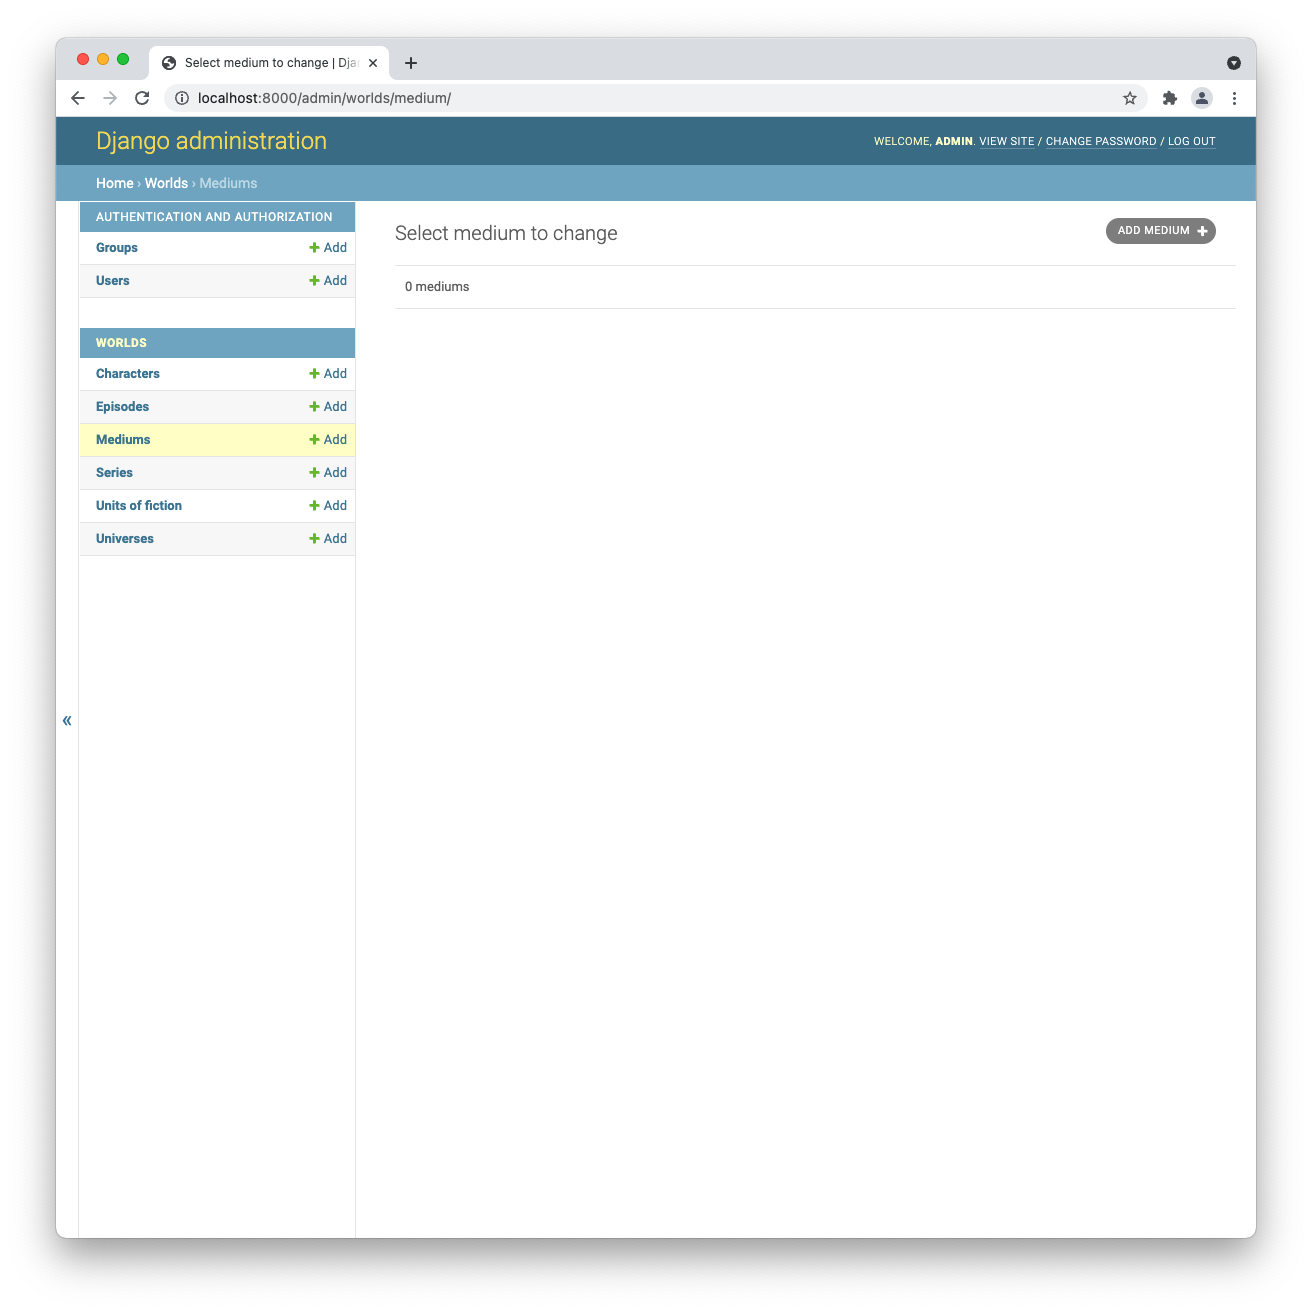
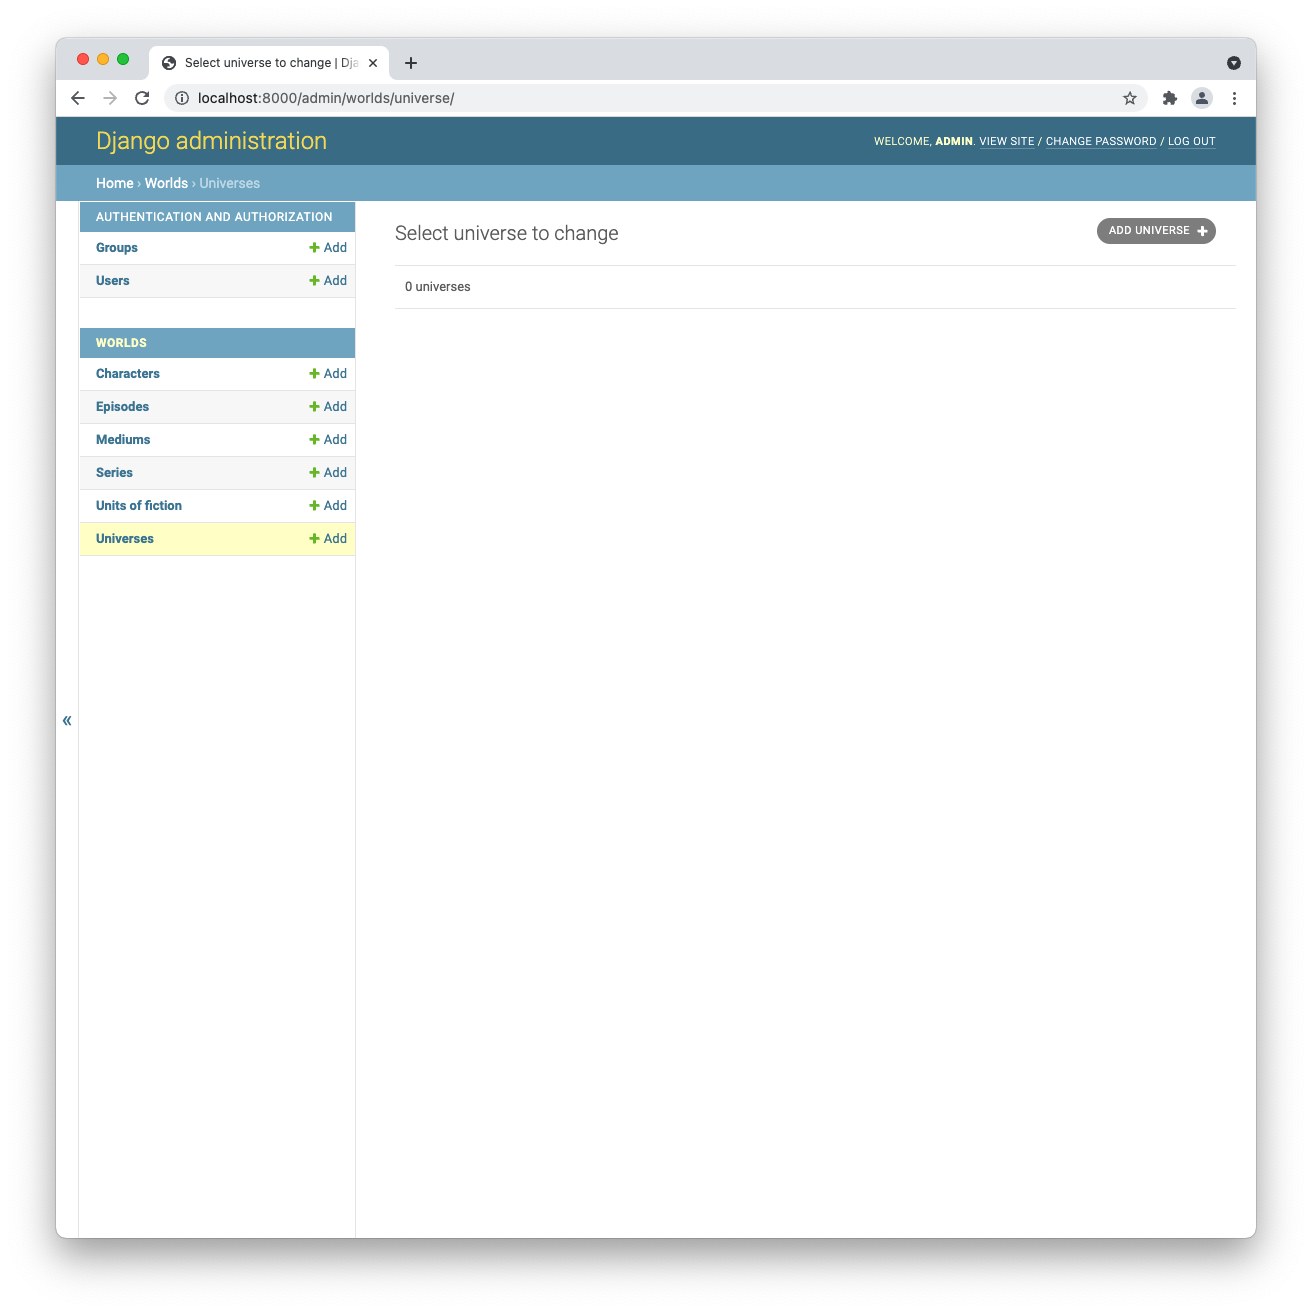
replaced Changelist for Mediums with Changelist for Universes

diff --git a/GALLERY.md b/GALLERY.md
@@ -10,11 +10,11 @@
 
 ![](gallery/2.png?raw=true)
 
-### Changelist page for Mediums, empty
+### Changelist page for Universes, empty
 
 ![](gallery/3.png?raw=true)
 
-### Changelist page for Mediums, populated
+### Changelist page for Universes, populated
 
 ![](gallery/4.png?raw=true)
 
@@ -38,7 +38,7 @@
 
 ![](gallery/9.png?raw=true)
 
-### Change page for Universe, with readonly_fields = ('creator')
+### Change page for Universe, with readonly_fields = ('creator',)
 
 ![](gallery/10.png?raw=true)
 
